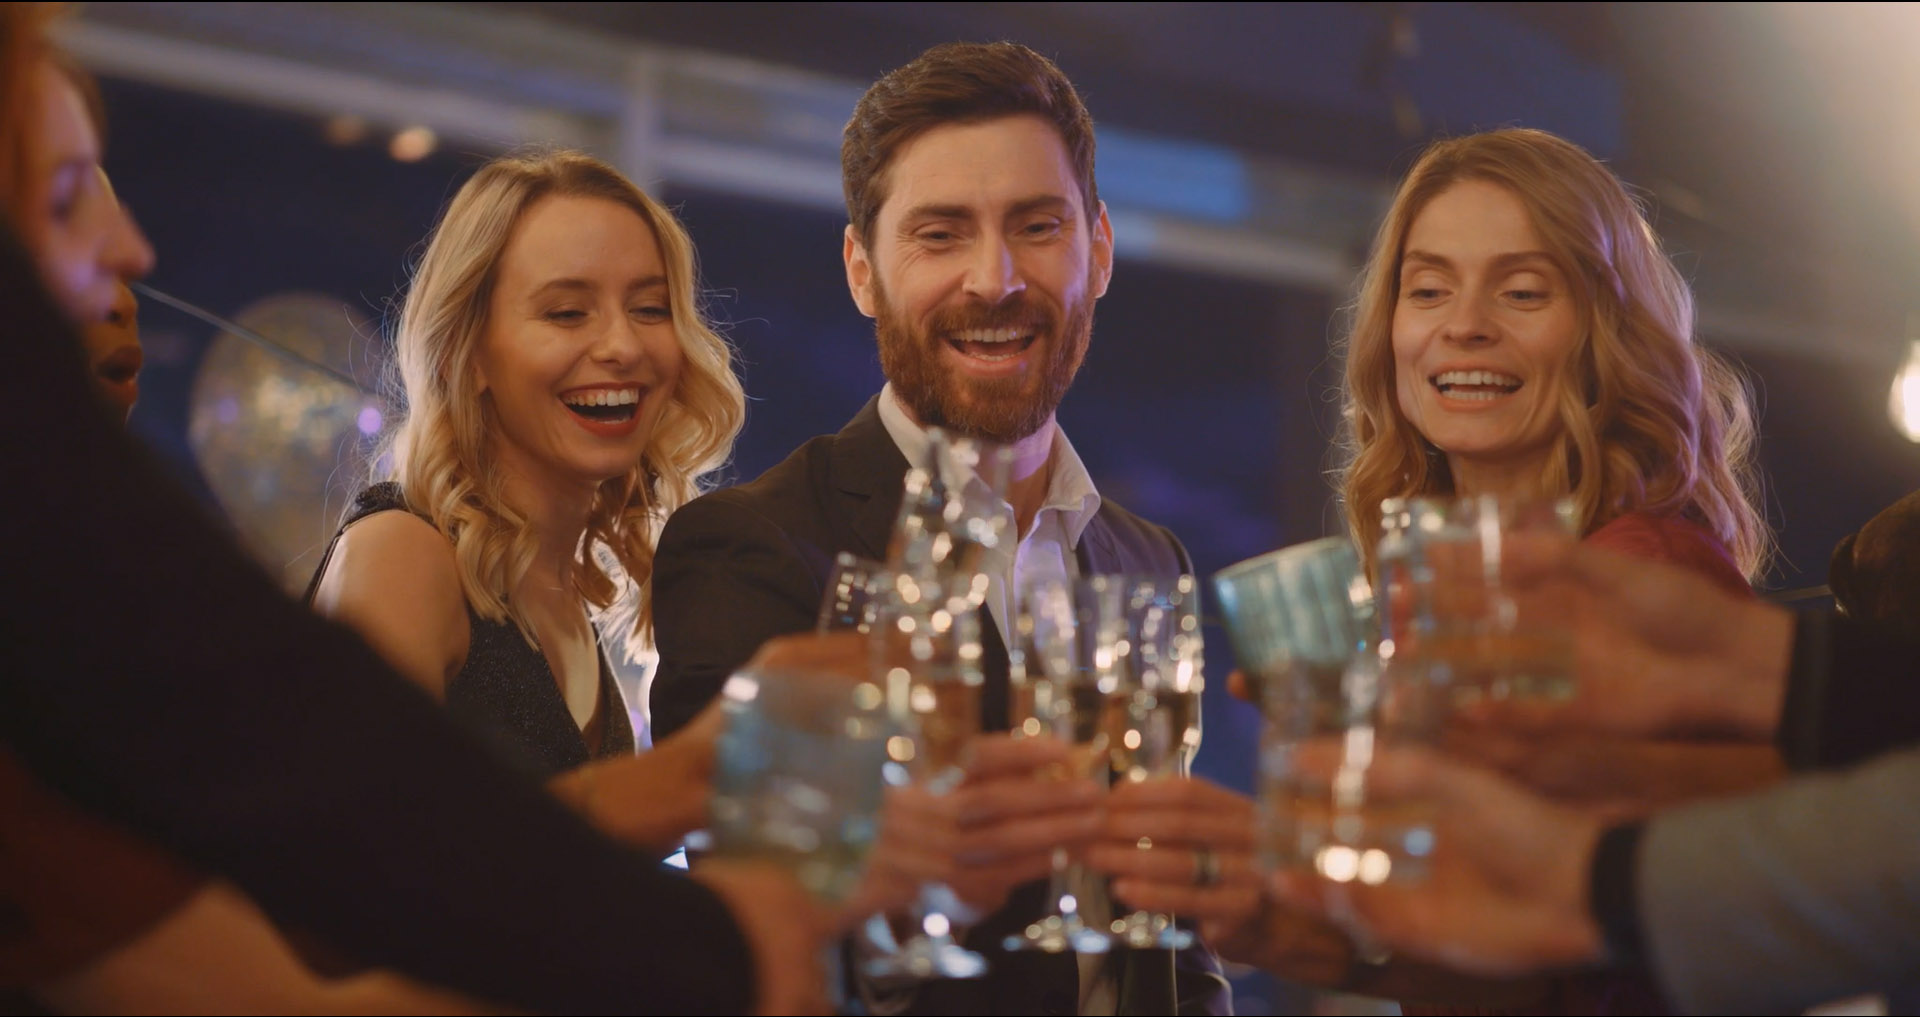
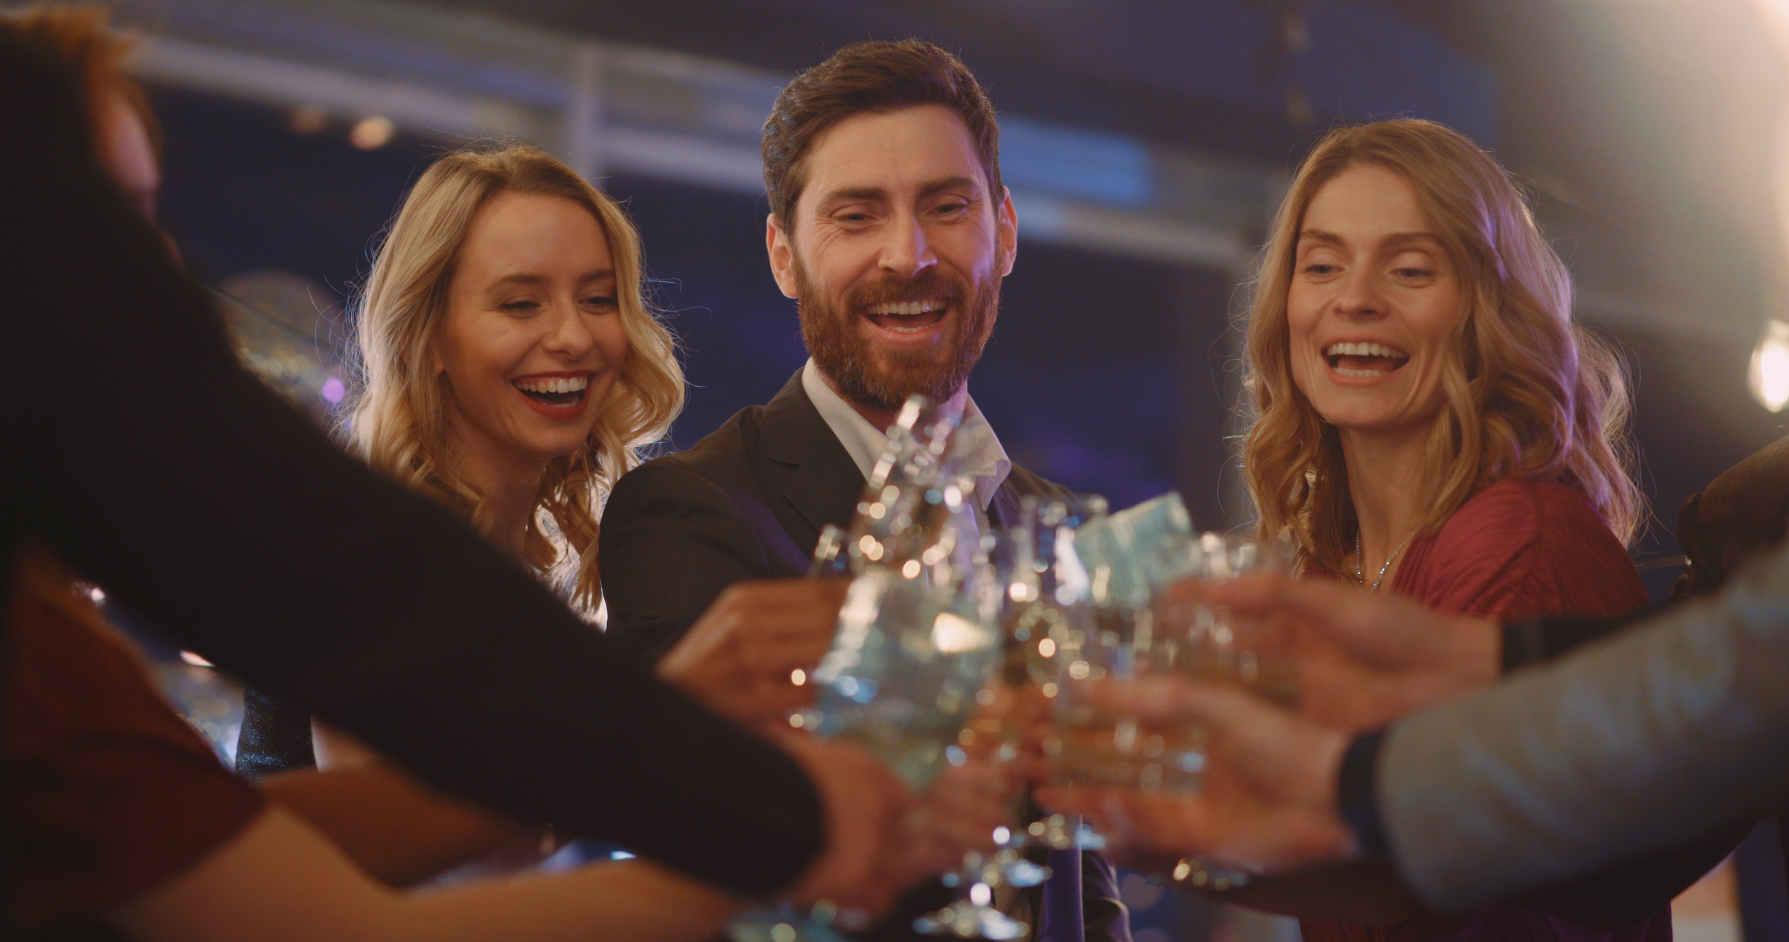
Add articles and update homepage mobile poster

diff --git a/src/components/VideoBackground/VideoBackground.tsx b/src/components/VideoBackground/VideoBackground.tsx
@@ -1,12 +1,16 @@
+import { StaticImage } from 'gatsby-plugin-image';
 import React, { FC } from 'react'
 import * as styles from './VideoBackground.module.scss';
 import { VideoBackgroundProps } from './VideoBackground.types';
 
-export const VideoBackground : FC<VideoBackgroundProps> = ( {poster, videos} ) => {
+export const VideoBackground : FC<VideoBackgroundProps> = ( {videos} ) => {
 
   return (
     <div className={ styles.videoBackground}>
-      <video className={ styles.videoBackground__video} loop autoPlay playsInline muted poster="/section-1__bg-video__poster.jpg" >
+      <div className={ styles.videoBackground__poster}>
+        <StaticImage src="../../assets/images/section-1__bg-video__poster.jpg" className={ styles.videoBackground__poster_img} alt="" />
+      </div>
+      <video className={ styles.videoBackground__video} loop autoPlay playsInline muted >
         {
           videos.map((el, i) => <source key={i} {...el} /> )
         }

diff --git a/src/components/VideoBackground/VideoBackground.module.scss b/src/components/VideoBackground/VideoBackground.module.scss
@@ -16,5 +16,26 @@
     min-width: 100%;
     min-height: 100%;
     object-fit: cover;
+    opacity: 0;
+  }
+
+  &__poster{
+    position: absolute;
+    top: 50%;
+    left: 50%;
+    transform: translate(-50%, -50%);
+    min-width: 100%;
+    min-height: 100%;
+    object-fit: cover;
+
+    &_img{
+      position: absolute;
+      top: 50%;
+      left: 50%;
+      transform: translate(-50%, -50%);
+      min-width: 100%;
+      min-height: 100%;
+      object-fit: cover;
+    }
   }
 }

diff --git a/src/pages/index.tsx b/src/pages/index.tsx
@@ -145,7 +145,7 @@ const IndexPage = ({ data } : any) => {
   return (
   <Layout header="white" pageClassName="page-pt0">
     <Section className={cls('section-blue', styles.pageHome__screen1)} >
-      <VideoBackground poster="" videos={[
+      <VideoBackground videos={[
           {src: videoBgMP4, type: "video/mp4"},
           {src: videoBgWEBM, type: "video/webm"},
           {src: videoBgOGV, type: "video/ogg"},

diff --git a/src/components/VideoBackground/VideoBackground.types.ts b/src/components/VideoBackground/VideoBackground.types.ts
@@ -4,6 +4,5 @@ interface VideoBackgroundVideo{
 }
 
 export interface VideoBackgroundProps {
-  poster: string
   videos: VideoBackgroundVideo[]
 }

diff --git a/src/pages/index.module.scss b/src/pages/index.module.scss
@@ -18,7 +18,7 @@
     }
 
     @media (max-width: $sm) {
-      height: 500px;
+      height: 420px;
       max-height: 100vh;
     }
 
